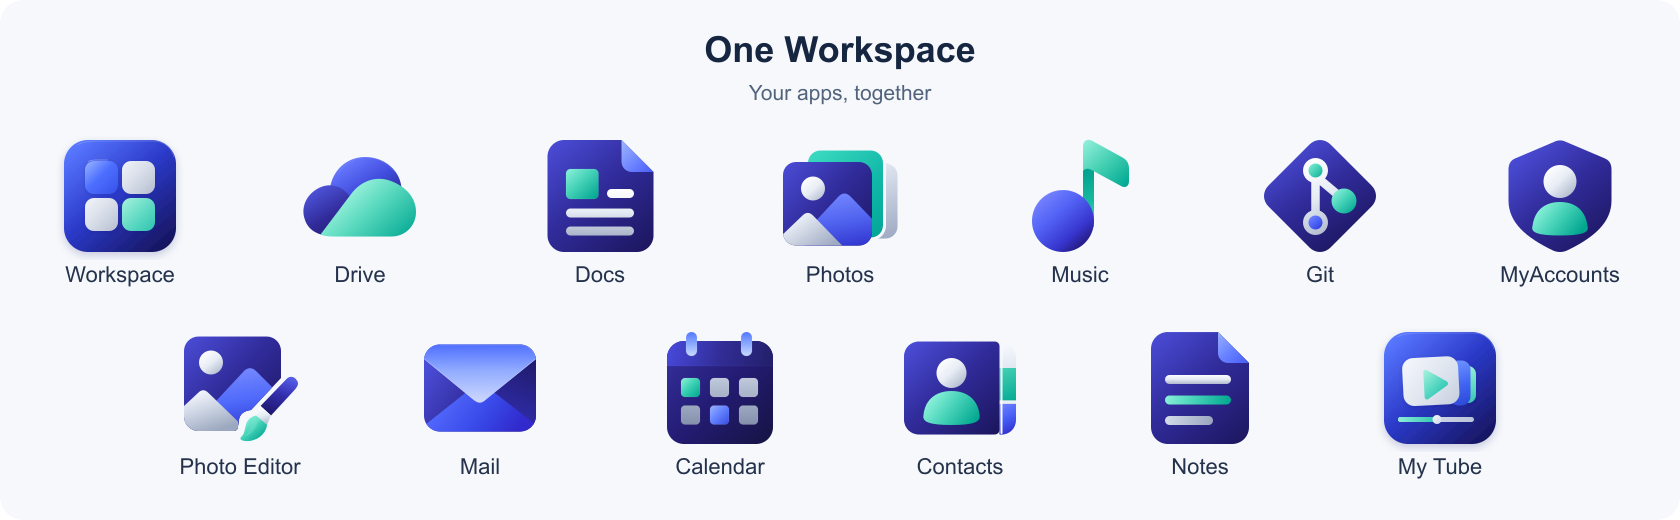
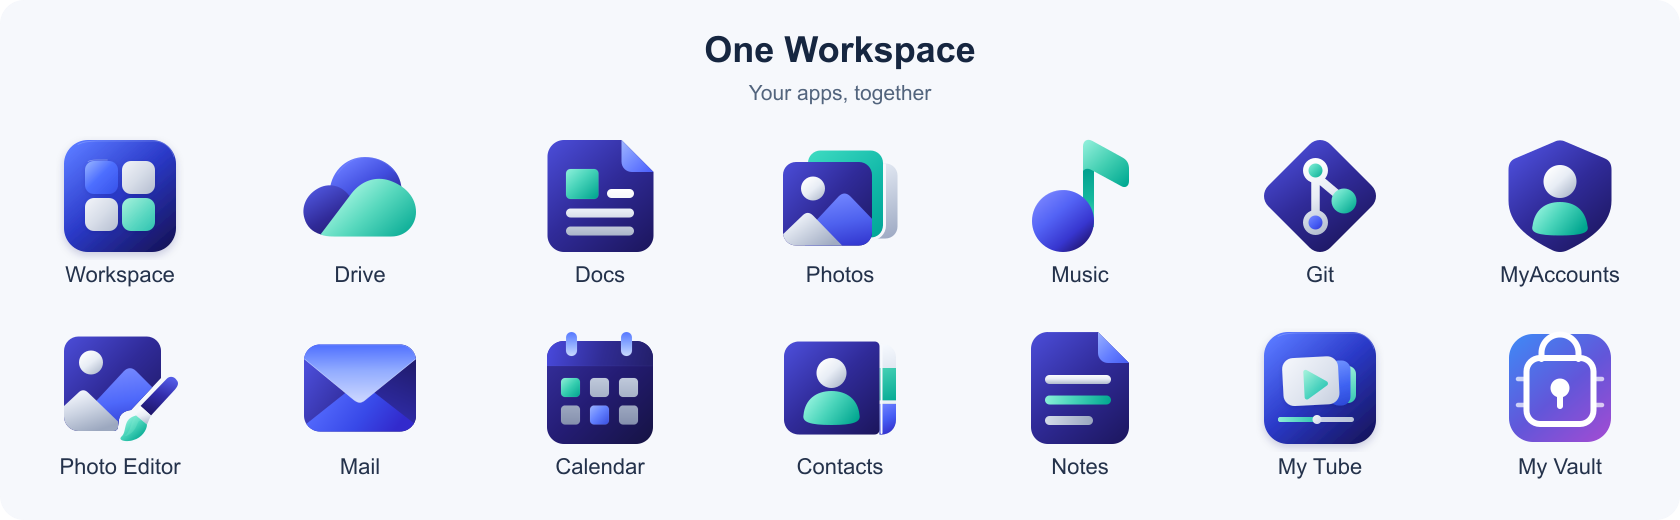
Add independent My Vault Windows app to organization installer and launcher [skip ci]

Changed region(s): [[0.031, 0.6154, 0.9595, 0.9231], [0.2786, 0.8923, 0.3095, 0.9231]]

diff --git a/internal/suite/my_vault.go b/internal/suite/my_vault.go
@@ -1,0 +1,60 @@
+package suite
+
+import (
+	"fmt"
+	"html/template"
+	"net"
+	"net/http"
+	"net/url"
+	"path/filepath"
+	"strings"
+
+	"github.com/fahimc/one-workspace/internal/platform"
+)
+
+// Keep the vault on a distinct origin. No Workspace scripts, portal session
+// gate or MyAccounts credentials enter the compatible vault client.
+func (p *Portal) vaultRoutes(mux *http.ServeMux) {
+	app, ok := p.rt.Config.Catalog.Find("vault")
+	if !ok {
+		return
+	}
+	handler := func(w http.ResponseWriter, r *http.Request) {
+		if r.URL.Path != "/vault" && r.URL.Path != "/vault/" {
+			http.NotFound(w, r)
+			return
+		}
+		var settings struct {
+			Origin string `json:"origin"`
+		}
+		_ = platform.LoadJSON(filepath.Join(p.rt.Config.Data, "my-vault", "myvault.json"), &settings)
+		u, e := url.Parse(settings.Origin)
+		workspace, _ := url.Parse(p.rt.Config.Origin)
+		if e == nil && u.Scheme == "https" && u.Host != "" && u.User == nil && u.RawQuery == "" && u.Fragment == "" && !localVaultHostname(u.Hostname()) && !sameVaultOrigin(u, workspace) {
+			http.Redirect(w, r, strings.TrimRight(u.String(), "/")+"/", http.StatusSeeOther)
+			return
+		}
+		w.Header().Set("Content-Type", "text/html; charset=utf-8")
+		w.Header().Set("Cache-Control", "no-store")
+		_ = vaultLanding.Execute(w, map[string]string{"Local": fmt.Sprintf("https://localhost:%d/", app.Port+1)})
+	}
+	mux.HandleFunc("GET /vault", handler)
+	mux.HandleFunc("GET /vault/", handler)
+}
+func localVaultHostname(host string) bool {
+	return strings.EqualFold(host, "localhost") || (net.ParseIP(host) != nil && net.ParseIP(host).IsLoopback())
+}
+func sameVaultOrigin(a, b *url.URL) bool {
+	port := func(u *url.URL) string {
+		if u.Port() != "" {
+			return u.Port()
+		}
+		if strings.EqualFold(u.Scheme, "https") {
+			return "443"
+		}
+		return "80"
+	}
+	return strings.EqualFold(a.Scheme, b.Scheme) && strings.EqualFold(strings.TrimSuffix(a.Hostname(), "."), strings.TrimSuffix(b.Hostname(), ".")) && port(a) == port(b)
+}
+
+var vaultLanding = template.Must(template.New("vault-launcher").Parse(`<!doctype html><html lang="en"><meta charset="utf-8"><meta name="viewport" content="width=device-width,initial-scale=1"><title>My Vault · One Workspace</title><style>body{margin:60px auto;padding:25px;max-width:720px;background:#f5f7fc;color:#17233b;font:16px/1.8 system-ui}h1{font-size:42px;letter-spacing:-1.7px}a{color:#6550cc}code{background:#ede9fa;padding:4px 7px;border-radius:5px}.card{background:white;border:1px solid #e2e6f2;border-radius:20px;padding:32px}</style><div class="card"><h1>Your vault. Independently.</h1><p>My Vault uses its own master password and a separate secure address to protect its browser storage. MyAccounts is not required to unlock or recover it.</p><p><a href="{{.Local}}">Open the local vault on this computer →</a></p><p>Trust the unique local certificate through My Vault’s owner tools before local sign-in. Trust the unique local certificate through My Vault’s owner tools before local sign-in. For access from another device, run <code>MyVault.exe manage</code> on the server and configure a dedicated HTTPS hostname, such as <code>vault.example.com</code>. Point its trusted proxy at My Vault's fixed loopback listener.</p><p>Keep a verified encrypted backup, a password-protected portable export and an offline client copy outside the server. Recovery &amp; Portability explains each step.</p><p>If Workspace or MyAccounts is unavailable, run the installed MyVault.exe directly with the same private data folder. Only one instance can own it.</p><p><a href="/">Return to Workspace</a></p></div></html>`))

diff --git a/internal/suite/my_vault_test.go b/internal/suite/my_vault_test.go
@@ -1,0 +1,53 @@
+package suite
+
+import (
+	"net/http"
+	"net/http/httptest"
+	"os"
+	"path/filepath"
+	"strings"
+	"testing"
+
+	"github.com/fahimc/one-workspace/internal/catalog"
+	"github.com/fahimc/one-workspace/internal/platform"
+)
+
+func TestVaultUsesIndependentOriginWithoutPortalSession(t *testing.T) {
+	root := t.TempDir()
+	if e := os.MkdirAll(filepath.Join(root, "my-vault"), 0700); e != nil {
+		t.Fatal(e)
+	}
+	app := catalog.App{ID: "vault", Kind: "process", Route: "/vault", Port: 19014}
+	p := &Portal{rt: &Runtime{Config: Config{Data: root, Origin: "https://workspace.example.test", Catalog: catalog.Catalog{Apps: []catalog.App{app}}}}}
+	mux := http.NewServeMux()
+	p.vaultRoutes(mux)
+	r := httptest.NewRequest("GET", "https://workspace.example.test/vault/", nil)
+	if p.isAppRequest(r) {
+		t.Fatal("vault launcher gated behind MyAccounts")
+	}
+	for _, origin := range []string{"", "http://insecure.example.test", "https://workspace.example.test", "https://WORKSPACE.example.test:443", "https://localhost:19015"} {
+		platform.SaveJSON(filepath.Join(root, "my-vault", "myvault.json"), map[string]string{"origin": origin})
+		w := httptest.NewRecorder()
+		mux.ServeHTTP(w, r)
+		if w.Code != 200 || !strings.Contains(w.Body.String(), "https://localhost:19015/") {
+			t.Fatal("unsafe/missing public origin did not show independent local setup")
+		}
+		if strings.Contains(w.Body.String(), "/_workspace/navigation.js") {
+			t.Fatal("Workspace script inserted into vault launch page")
+		}
+	}
+	platform.SaveJSON(filepath.Join(root, "my-vault", "myvault.json"), map[string]string{"origin": "https://vault.example.test"})
+	w := httptest.NewRecorder()
+	mux.ServeHTTP(w, r)
+	if w.Code != 303 || w.Header().Get("Location") != "https://vault.example.test/" {
+		t.Fatal("dedicated vault origin not linked directly")
+	}
+}
+
+func TestVaultAssignedIndependentPortWithoutOIDC(t *testing.T) {
+	c := NewConfig(Request{Port: 19000}, catalog.Catalog{Apps: []catalog.App{{ID: "vault", Kind: "process", Route: "/vault"}}})
+	vault, _ := c.Catalog.Find("vault")
+	if vault.Port != 19014 || vault.OIDC || len(vault.Depends) != 0 {
+		t.Fatal("vault lost independent launch contract")
+	}
+}

diff --git a/internal/distribution/updates.go b/internal/distribution/updates.go
@@ -85,6 +85,7 @@ var updateGroups = []updateGroup{
 	{"calendar", "Calendar and Contacts", "calendar", []string{"calendar", "contacts"}},
 	{"notes", "Notes", "notes", []string{"notes"}},
 	{"my-tube", "My Tube", "my-tube", []string{"my-tube"}},
+	{"vault", "My Vault", "my-vault", []string{"vault"}},
 }
 
[1 lines of base64/hex data omitted]
@@ -195,6 +196,9 @@ func groupPackages(g updateGroup, c catalog.Catalog) map[string]catalog.Package 
 	return out
 }
 func updatePackageOwner(id string) string {
+	if id == "vault" || strings.HasPrefix(id, "vault-") {
+		return "vault"
+	}
 	fixed := map[string]string{"manager": "workspace", "cloudflared": "workspace", "license": "workspace", "notice": "workspace", "accounts": "accounts", "drive": "drive", "photos": "drive", "gitea": "gitea", "music": "music", "mail": "mail", "mail-license": "mail", "mail-notice": "mail", "studio": "studio", "studio-license": "studio", "services-shared": "calendar", "stalwart-shared": "calendar", "calendar": "calendar", "contacts": "calendar", "calendar-license": "calendar", "notes": "notes", "notes-LICENSE": "notes", "notes-NOTICE": "notes", "notes-THIRD-PARTY-LICENSES.txt": "notes", "my-tube": "my-tube", "my-tube-LICENSE": "my-tube", "my-tube-NOTICE": "my-tube", "my-tube-THIRD-PARTY-LICENSES.txt": "my-tube"}
 	if owner := fixed[id]; owner != "" {
 		return owner

diff --git a/internal/platform/process_windows.go b/internal/platform/process_windows.go
@@ -119,12 +119,24 @@ func OpenBrowser(url string) {
 	_ = cmd.Start()
 }
 func Autostart(exe, data string, enabled bool) error {
-	k, _, e := registry.CreateKey(registry.CURRENT_USER, `Software\Microsoft\Windows\CurrentVersion\Run`, registry.SET_VALUE)
+	k, _, e := registry.CreateKey(registry.CURRENT_USER, `Software\Microsoft\Windows\CurrentVersion\Run`, registry.SET_VALUE|registry.QUERY_VALUE)
 	if e != nil {
 		return e
 	}
 	defer k.Close()
 	if !enabled {
+		existing, _, readErr := k.GetStringValue("OneWorkspace")
+		if readErr == registry.ErrNotExist {
+			return nil
+		}
+		if readErr != nil {
+			return readErr
+		}
+		// A new portable/test installation must not disable another installation's
+		// existing autostart registration when its own checkbox is off.
+		if existing != `"`+exe+`" --data "`+data+`" run` {
+			return nil
+		}
 		e = k.DeleteValue("OneWorkspace")
 		if e == registry.ErrNotExist {
 			return nil

diff --git a/internal/suite/portal.go b/internal/suite/portal.go
@@ -174,6 +174,7 @@ func (p *Portal) callback(w http.ResponseWriter, r *http.Request) {
 func (p *Portal) Handler(control string) http.Handler {
 	mux := http.NewServeMux()
 	p.navigationRoutes(mux)
+	p.vaultRoutes(mux)
 	p.updateRoutes(mux)
 	mux.Handle("GET /branding/", branding.Handler())
 	mux.HandleFunc("GET /auth/login", p.login)
@@ -274,7 +275,7 @@ func (p *Portal) Handler(control string) http.Handler {
 		})
 	}
 	for _, a := range p.rt.Config.Catalog.Apps {
-		if a.ID == "accounts" || a.ID == "drive" || a.ID == "photos" || a.Kind != "process" {
+		if a.ID == "accounts" || a.ID == "drive" || a.ID == "photos" || a.ID == "vault" || a.Kind != "process" {
 			continue
 		}
 		route := strings.TrimRight(a.Route, "/")

diff --git a/internal/branding/branding.go b/internal/branding/branding.go
@@ -75,7 +75,7 @@ func Icon(app string) string {
 		"calendar": "my_calendar", "contacts": "my_contacts", "drive": "my_drive", "docs": "my_office", "office": "my_office",
 		"photos": "my_photos", "gitea": "my_git", "git": "my_git",
 		"music": "my_music", "studio": "photo_editor", "photo-editor": "photo_editor",
-		"mail": "my_mail", "accounts": "my_accounts", "myaccounts": "my_accounts", "notes": "my_notes", "my-tube": "my_tube",
+		"mail": "my_mail", "accounts": "my_accounts", "myaccounts": "my_accounts", "notes": "my_notes", "my-tube": "my_tube", "vault": "my_vault",
 	}[app]
 	if name == "" {
 		name = "one_workspace"

diff --git a/internal/suite/config.go b/internal/suite/config.go
@@ -153,6 +153,8 @@ func NewConfig(r Request, c catalog.Catalog) Config {
 			app.Port = r.Port + 12
 		case "my-tube":
 			app.Port = r.Port + 13
+		case "vault":
+			app.Port = r.Port + 14
 		}
 		apps = append(apps, app)
 	}
@@ -195,6 +197,9 @@ func CheckPorts(c Config) error {
 	for _, a := range c.Catalog.Apps {
 		if a.Kind == "process" {
 			ports = append(ports, a.Port)
+			if a.ID == "vault" {
+				ports = append(ports, a.Port+1)
+			}
 			if a.ID == "mail" && !usesShared(c, "mail") {
 				ports = append(ports, a.Port+1, a.Port+2)
 			}

diff --git a/internal/suite/navigation.go b/internal/suite/navigation.go
@@ -51,7 +51,7 @@ func (p *Portal) isAppRequest(r *http.Request) bool {
 	}
 	for _, app := range p.rt.Config.Catalog.Apps {
 		route := strings.TrimRight(app.Route, "/")
-		if app.ID != "accounts" && app.Kind == "process" && route != "" && (r.URL.Path == route || strings.HasPrefix(r.URL.Path, route+"/")) {
+		if app.ID != "accounts" && app.ID != "vault" && app.Kind == "process" && route != "" && (r.URL.Path == route || strings.HasPrefix(r.URL.Path, route+"/")) {
 			return true
 		}
 	}

diff --git a/agents/history/2026-10-16-my-vault-integration-compacted.md b/agents/history/2026-10-16-my-vault-integration-compacted.md
@@ -1,0 +1,90 @@
+# My Vault integration — Windows preview
+
+The owner supplied the My Vault brief and requested a new org repository,
+implementation, installer integration and README/logo. Mobile work was explicitly
+deferred. Do not change the running C:/tmp/workspace suite or use live accounts,
+mailboxes, files or identity state as fixtures. No GitHub Actions or subagents.
+Preserve the unrelated untracked installed-preview22 handoff.
+
+New component source: I:/Projects/my-vault, public
+https://github.com/oneworkspacestudio/my-vault. Published preview1 from1ff33c0,
+native MyVault.exe66,552,832bytes; org ZIP SHA
+d0912e0f7780f4dbb4d4525480147f7b1079d1f45627d704a3aee7318064da1d.
+Pinned unmodified Vaultwarden1.37.4 application source, dependency-only security
+lock updates rustls0.23.46; native MSVC static CRT, bundled OpenSSL/SQLite. Web
+vault2026.7.0 crypto JS unchanged. GPL/AGPL notices and corresponding sources
+provided. The SDK source archive briefly included upstream's separately licensed
+directory: release was temporarily drafted, that source asset/checksums corrected
+to exclude44 restricted paths, then republished. Binary/Windows ZIP unchanged.
+Keep that source-packaging correction transparent; do not suppress audit findings.
+
+My Vault has independent email/master password/MFA, no MyAccounts dependency,
+OIDC secret or portal cookie. Its engine/gateway are loopback-only; native local
+HTTPS uses a unique localhost-only leaf, CA=false, explicitly trusted by the owner
+for their Windows user. Startup never changes trust. Native local HTTPS is gateway
+port+1. Owner tools use separate local capability/Host/Origin checks. A pending
+question asks whether the owner permits trusting a test certificate; no answer
+has arrived and Windows trust must remain unchanged until approved.
+
+Official Bitwarden CLI2026.9.1 passed login/sync/decryption, secure note, folder/
+search/generation/TOTP/attachment, encrypted portable export into a different
+account, offline cache unlock with server stopped, and age full-backup recovery
+into a fresh data root/clean client profile with exact attachment bytes. Repeated
+those recovery checks with the final security-patched executable. Same physical
+Windows host; no clean-host claim. Cross-user denial, management/admin/enrollment,
+TLS/rate limits/forwarded IP, duplicate ownership, wrong secret/corrupt archives
+also exercised. Component acceptance.json remains productionEligible=false for
+browser trust/registration/login, desktop/extension, clean host/service/reboot,
+MFA/passkey/shared collections and independent security review. Mobile deferred.
+
+Workspace changes: catalog app13 `vault`, base+14 gateway/base+15 local TLS reserved
+in preflight; app args run --data ${DATA}/my-vault --listen127.0.0.1:${PORT}
+--no-browser, env MYVAULT_WORKSPACE_ORIGIN=${ORIGIN}, no dependencies/OIDC. Logo,
+README and branding overview updated, recovery/security/client guides and license
+files installed, separate verified updater group/owned notices and org lock pin.
+
+The /vault route is an anonymous launcher only: no cryptographic client proxy or
+shared navigation injection. Canonical same-origin comparison includes default443.
+Localhost HTTPS origins show setup instead of sending remote visitors to their
+own localhost. Configured public dedicated HTTPS origins redirect directly.
+Existing updater preserves selected apps. Existing installs explicitly add the
+new entry with stopped Workspace install-apps --bundle; identical existing
+component hashes required. See docs/MY-VAULT.md, no destructive reinstall advice.
+
+Fixed installer Autostart(false): only remove a matching registration for that
+same exe/data pair; a new portable/test install must not disable another install.
+All Go tests/vet pass, including new origin/session/port integration coverage.
+
+Full org build verified13app definitions. Final manager was refreshed after the
+last localhost-launch correction, retaining all component ZIP entries byte for
+byte with archive/zip.Writer.Copy; catalog manager digest and embedded setup were
+rebuilt from final source. Final native install uses actual packaged installer in
+I:/Projects/tooling/my-vault/workspace-suite/Apps and a disposable C:NTFS private
+root under the named my-vault-build cache. APPDATA/LOCALAPPDATA/TEMP isolated,
+autostart registration fingerprint checked unchanged. Installer completed; startup
+health/anonymous vault launcher/installed guides checks are running (exec60797).
+Test script always stops owned supervisor/children; verify no leftovers afterward.
+
+Release25 source not yet committed/pushed, final bundle not yet published. Local
+dist now holds the final13app installer/bundle/catalog; old SHA256SUMS.txt must be
+regenerated before release. Verify every package hash/size and source provenance,
+record native receipt and honest limitations, commit only task paths, then publish
+preview25 with no Actions and compare every GitHub asset hash before publication.
+Owned large build artifacts under tooling/my-vault; native Rust target/vendor C:
+cache already removed after verified corresponding-source preservation. Remaining
+test fixtures/toolchains/cache may be removed only after exact canonical/reparse/
+process checks, preserving live installation and its backups. Do not publish
+synthetic fixture credentials/session/recovery secrets or private configuration.
+
+## Native suite acceptance passed
+
+The actual packaged offline installer completed a fresh disposable installation.
+All13catalog entries were installed, all11process app health checks passed (Docs
+and Photo Editor are builtin entries), the My Vault executable exactly matched its
+verified org release, the unauthenticated independent launcher showed the correct
+dedicated local HTTPS link, and recovery/security guides were installed. Previous
+autostart registration was unchanged. Test supervisor and its app processes were
+stopped by the harness. Receipt: tooling/my-vault/workspace-suite/acceptance.json.
+This verifies installation/health/integration, not renewed full flows in every app,
+clean physical host, real reboot/service, browser vault or desktop acceptance.
+No live installation or certificate trust was changed.

diff --git a/docs/MY-VAULT.md b/docs/MY-VAULT.md
@@ -1,0 +1,58 @@
+# My Vault integration
+
+My Vault is a native Windows Vaultwarden companion from
+[oneworkspacestudio/my-vault](https://github.com/oneworkspacestudio/my-vault).
+It preserves the established vault protocol/client encryption and provides
+independent local management, encrypted full backups, portable-export guidance
+and restoration without the original Workspace, MyAccounts or server.
+
+The installed MyVault.exe runs one supervised loopback-only engine, with state in
+`Private/my-vault`. The fixed gateway port is Workspace base+14; the following
+port serves dedicated local HTTPS. Trust the app's unique localhost certificate
+explicitly through its local owner tools before browser use. Its catalog has
+no MyAccounts dependency, OIDC client or identity secret. The process lock prevents
+another standalone/service instance from adopting that same root concurrently.
+
+The `/vault` entry is a launcher. It never proxies cryptographic HTML through the
+shared Workspace origin or injects Workspace navigation into that client. A
+dedicated configured HTTPS vault hostname is linked directly. Until remote hosting
+is configured, the entry explains setup and provides the local computer's direct
+loopback link. Configure a trusted HTTPS proxy/tunnel to that fixed listener using
+the app's owner tools. Saving a hostname does not create DNS/certificates.
+
+If Workspace or MyAccounts is unavailable, stop any remaining supervised vault
+and run the installed MyVault.exe directly. Its adjacent workspace-location.json
+selects the same private root. Vault email/master password/MFA remain independent.
+Do not delete/recreate the account or change encryption to compensate for a
+Workspace sign-in failure.
+
+For server loss, use the independent age-encrypted backup or a password-protected
+portable compatible-client export on a fresh computer/account. Preserve separate
+master/export/backup passwords, recovery identity and MFA codes off the server.
+Offline clients must have synced and remain logged in, and unlocking must be
+tested before relying on the cache. Mobile acceptance is deferred by owner.
+
+App updates are a separate verified group; launcher/license notices move together.
+Workspace's full stopped-state backup includes the private vault. Portable
+independent backup/export/recovery remains necessary and is not replaced by an
+installation rollback tied to the original Windows computer.
+
+Read the app's shipped acceptance matrix and export-format limits before relying
+on attachment, organisation, passkey, TOTP, SSH or other client migration paths.
+No unsupported client or unperformed recovery/platform test is claimed.
+
+## Add My Vault to an existing installation
+
+Ordinary updates preserve your selected app set. To explicitly add the new app,
+download the verified complete bundle, stop Workspace and use the installed
+manager's existing command:
+
+```powershell
+Workspace.exe --data YOUR_PRIVATE_FOLDER install-apps --bundle workspace-bundle.zip
+```
+
+Existing component versions must match the bundle; update them first if the
+command reports a mismatch. The command retains account state, files and existing
+app data. Start Workspace again, then open the My Vault entry. Its independent
+account and certificate setup are separate owner actions. Do not reinstall over
+or delete existing private data to add a new app.

diff --git a/README.md b/README.md
@@ -37,11 +37,13 @@ Browse files, edit documents, enjoy your photos and music, and move between apps
 | <img src="internal/branding/icons/my_contacts.svg" alt="Contacts logo" width="40" height="40"> **Contacts** | Your address book, sharing Calendar's local service. | [calendar](https://github.com/oneworkspacestudio/calendar) |
 | <img src="internal/branding/icons/my_notes.svg" alt="Notes logo" width="40" height="40"> **Notes** | Private notes and notebooks, with Markdown editing and history. | [notes](https://github.com/oneworkspacestudio/notes) |
 | <img src="internal/branding/icons/my_tube.svg" alt="My Tube logo" width="40" height="40"> **My Tube** | Upload and watch videos, create channels and playlists, and follow your community. | [my-tube](https://github.com/oneworkspacestudio/my-tube) |
+| <img src="internal/branding/icons/my_vault.svg" alt="My Vault logo" width="40" height="40"> **My Vault** | An independent password vault with compatible clients, encrypted backups and portable recovery. | [my-vault](https://github.com/oneworkspacestudio/my-vault) |
 
 The organization build includes all currently released apps above, with exact
 release URLs and checksums recorded in the package. [App sources and installation](docs/ORG-APPS.md).
 Notes is included from its [organization release](https://github.com/oneworkspacestudio/notes/releases).
 My Tube is installed with the package from its [organization release](https://github.com/oneworkspacestudio/my-tube/releases), with MyAccounts sign-in, private video storage and My Drive import/export. FFmpeg/FFprobe remain optional separate helpers for broader codecs and HLS.
+My Vault keeps its own vault login and master password. Its launcher opens a separate secure address; independent recovery works without MyAccounts or Workspace. [Vault installation, hosting and recovery](docs/MY-VAULT.md).
 Calendar and Contacts use a shared local service. Hosting-capable Mail keeps its
 existing private engine and mailboxes until an explicit supported migration.
 [Shared-service integration](docs/SHARED-SERVICES.md).

diff --git a/docs/RELEASE-STATUS.md b/docs/RELEASE-STATUS.md
@@ -80,3 +80,17 @@ content-addressed SVG filenames. Setup and update windows use those filenames to
 A new SVG receives a new URL, so browser/CDN entries for previous artwork cannot
 hide a branding change. Versioned files have immutable caching and ETags; legacy
 filenames remain available with revalidation. App component pins are unchanged.
+
+## My Vault Windows preview
+
+My Vault is the thirteenth app in fresh installations, pinned to the public org
+release. Its separate HTTPS origin and independent master-password route do not
+require MyAccounts. Portable encrypted export/import, offline CLI access and full
+age-encrypted server restore with attachment checks passed in isolated same-host
+Windows fixtures. Clean-host, desktop/extension, browser trust/registration,
+service/reboot and independent security review remain open. Read the installed
+docs/MyVault/acceptance.json and SECURITY-REVIEW.md. This is an unsigned preview
+and is not approved for important production credentials. Mobile is deferred.
+Existing installations keep their selected app set during update; no new vault
+or account is silently enabled. The installer does not update a live suite as
+part of building or publishing this release.
